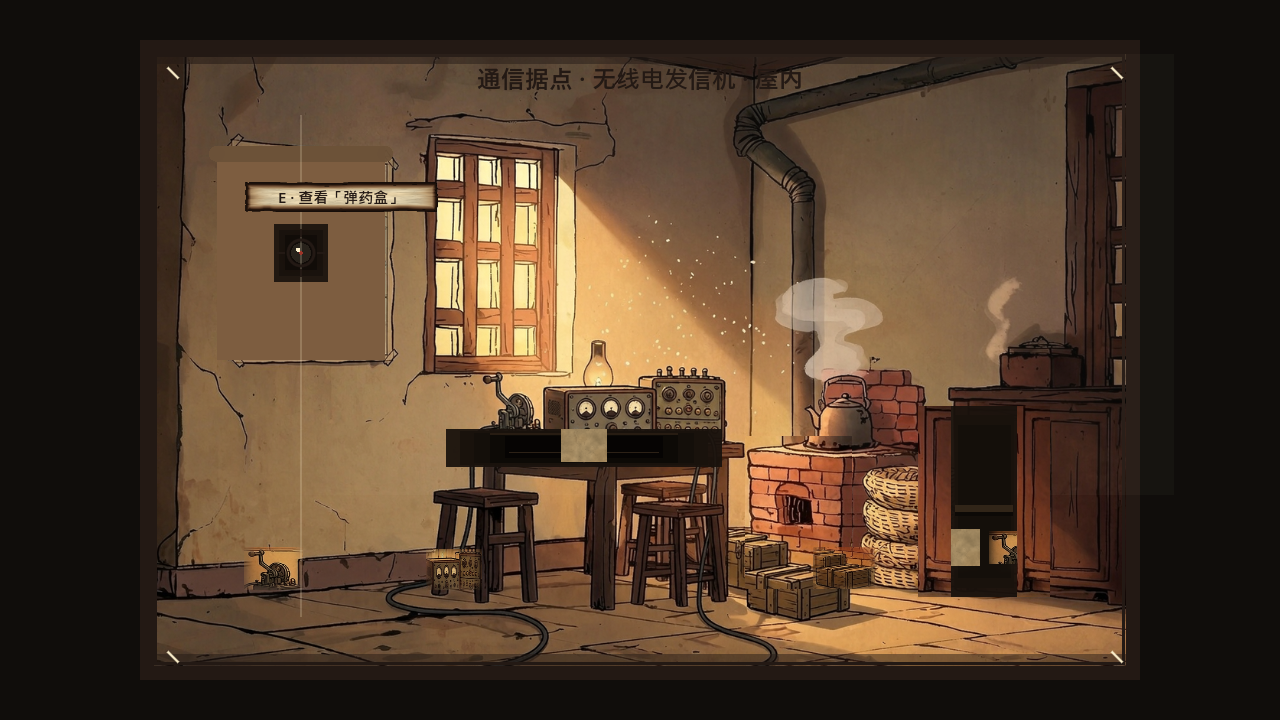
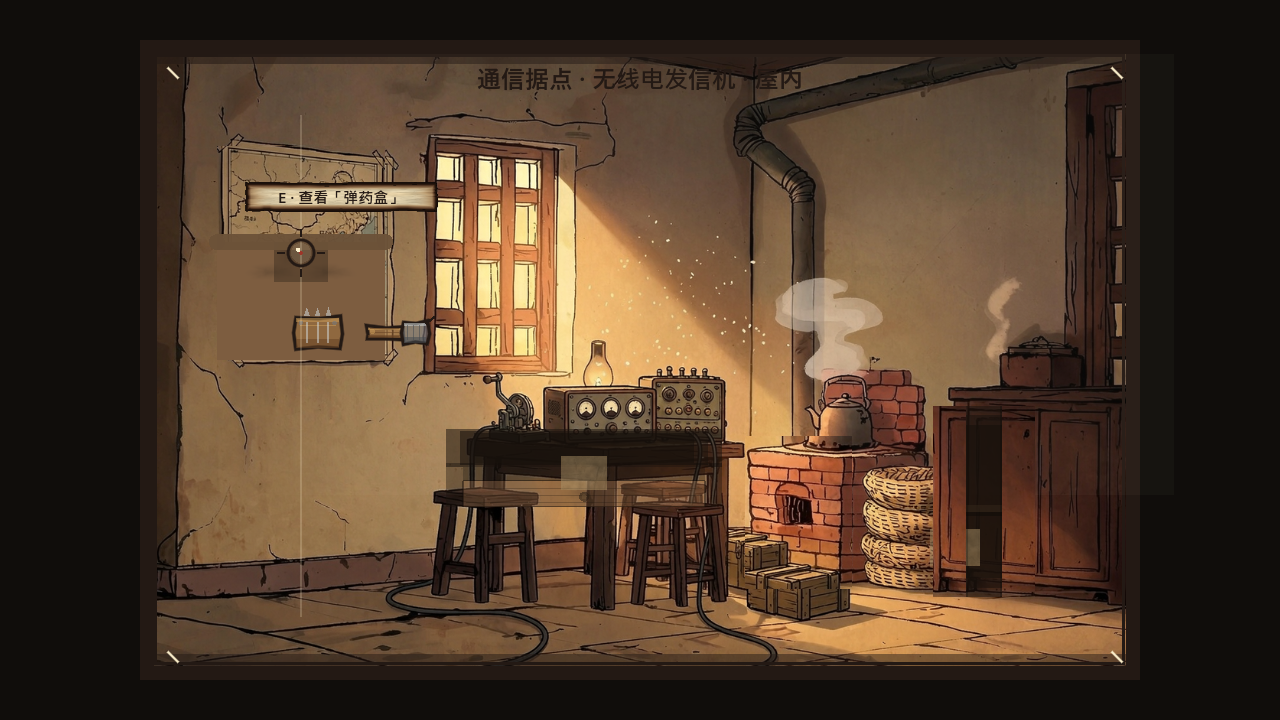
v3.96 · 室内四处红圈修正：挂画暗格改墙色凹陷壁龛 / 地上弹药箱改落地干净木箱 / 抽屉改回拉出盒 / 柜门改中式双开门左右外开
- InteriorExplore.cs DrawFurnitureFront：柜门两扇以柜体外侧竖边为铰链整扇左右平移展开(保全宽不塌缩)、中央露暗腔(Edit A)；桌抽屉重画为从桌裙底边抽出的木盒(4px 暗缝+前脸木纹+墨线勾边+拉环, boxH=min(72·ot,FloorY-yA-4))(Edit B)
- DrawItemCore：FloorDrop 与 Surface 物件均按绘制半高抬升，箱子落地线不浮空(Edit C)
- DrawPictureNiche：暗格=wall*0.55(非近黑)、上/左压暗下/右受光，OpenT>0.05 龛内画物件
- 画廊 n918_05_interior.png←room_03_mid_opening(通信据点全开)、n918_07_interior_explore.png←room_04_burnt(住家真实搜刮含落地弹药箱+抽屉+壁龛)，URL ?v 由遗留3.94补正至3.96
- 反转 v3.95 的 apron 内凹口抽屉(被用户红圈判为读成关着的)改回拉出盒
- dotnet build 0W/0E；README 补 v3.96 章节+主线；memory 补 2026-11-15

diff --git a/scripts/InteriorExplore.cs b/scripts/InteriorExplore.cs
@@ -1117,18 +1117,16 @@ public partial class InteriorForeground : Control
                 var cov = CoverRect(_room.Type, f.Type);
                 p.Y = rc.Y + cov.Size.Y * 0.24f;
             }
-            // 桌子：物品落进 apron 中央挖出的抽屉口内（与 DrawFurnitureFront 同参）
+            // 桌子：物品落进抽出的抽屉盒口内（盒顶=桌裙底边 yA；与 DrawFurnitureFront 同参）
             if (!IsBurnt && f.Type == FurnitureType.Desk)
             {
                 if (FrontSrc.TryGetValue((_room.Type, f.Type), out var dsrc))
                 {
                     var dd = BgRect(dsrc);
-                    float ix = dd.Position.X + dd.Size.X * 0.16f;
-                    float iw = dd.Size.X * 0.68f;
-                    float iy = dd.Position.Y + dd.Size.Y * 0.10f;
-                    float ih = dd.Size.Y * 0.80f;
-                    p.X = ix + iw * 0.5f + (k % 2 == 0 ? -spread : spread);
-                    p.Y = iy + ih * 0.42f;
+                    float yA = dd.Position.Y + dd.Size.Y;   // 桌裙底边
+                    float dw = dd.Size.X;
+                    p.X = dd.Position.X + dw * 0.5f + (k % 2 == 0 ? -spread : spread);
+                    p.Y = yA + 6f + (k / 2) * 22f;          // 落在抽屉口上沿、向上探出
                 }
             }
             bool near = _room.NearIndex >= 0 && _room.NearIndex < _room.Items.Count
@@ -1288,8 +1286,30 @@ public partial class InteriorForeground : Control
         DrawRect(r,                                   new Color(cr, cg, cb, 0.92f * a));
         DrawRect(new Rect2(r.Position + r.Size * 0.10f, r.Size * 0.80f), new Color(cr, cg, cb, 0.97f * a));
         DrawRect(new Rect2(r.Position + r.Size * 0.20f, r.Size * 0.60f), new Color(0.07f, 0.05f, 0.035f, 1.00f * a));
+            if (_shadowTex != null)
+                DrawTextureRect(_shadowTex, r, false, new Color(0.05f, 0.035f, 0.025f, 0.45f * a));
+        }
+
+    /// <summary>v3.96：墙体凹陷小壁龛（挂画后暗格）。底色=墙色压暗 ~45%，仍读作墙的暗部；
+    /// 上/左内沿淡墨柔影做出纵深，下/右受光面略提亮；绝不画近黑方块（用户 #1）。</summary>
+    private void DrawPictureNiche(Rect2 r, float a, bool comm)
+    {
+        Color wall = comm ? new Color(0.49f, 0.366f, 0.253f, 1f) : new Color(0.47f, 0.358f, 0.248f, 1f);
+        Color recess = new Color(wall.R * 0.55f, wall.G * 0.55f, wall.B * 0.55f, a);
+        DrawRect(r, recess);
+        // 上沿 + 左沿内阴影（凹入纵深）
         if (_shadowTex != null)
-            DrawTextureRect(_shadowTex, r, false, new Color(0.05f, 0.035f, 0.025f, 0.45f * a));
+        {
+            DrawTextureRect(_shadowTex, new Rect2(r.Position.X, r.Position.Y, r.Size.X, r.Size.Y * 0.5f),
+                            false, new Color(0.04f, 0.03f, 0.02f, 0.5f * a));
+            DrawTextureRect(_shadowTex, new Rect2(r.Position.X, r.Position.Y, r.Size.X * 0.5f, r.Size.Y),
+                            false, new Color(0.04f, 0.03f, 0.02f, 0.32f * a));
+        }
+        // 下沿 + 右沿受光提亮（增强凹入感）
+        DrawRect(new Rect2(r.Position.X, r.Position.Y + r.Size.Y * 0.88f, r.Size.X, r.Size.Y * 0.12f),
+                  new Color(wall.R * 0.74f, wall.G * 0.74f, wall.B * 0.74f, 0.55f * a));
+        DrawRect(new Rect2(r.Position.X + r.Size.X * 0.88f, r.Position.Y, r.Size.X * 0.12f, r.Size.Y),
+                  new Color(wall.R * 0.74f, wall.G * 0.74f, wall.B * 0.74f, 0.5f * a));
     }
 
     /// <summary>
@@ -1321,7 +1341,11 @@ public partial class InteriorForeground : Control
                     : new Color(0.47f, 0.358f, 0.248f, 1f);
                 DrawRect(wallDst, wall);
             }
-            DrawSmallNiche(r, a);
+            // v3.96：暗格改画成「墙体凹陷的小壁龛」——底色取墙色压暗 ~45%（仍读作墙的暗部，
+            // 不再是与墙格格不入的近黑方块），上/左内沿淡墨柔影做出纵深；龛内藏匿物随后画进龛内。
+            DrawPictureNiche(r, a, _room.Type == RoomType.CommOutpost);
+            // 挂画卷起后，龛内藏匿物（信件/文件）露出来（用户 #1：暗格里要有物品，且不像黑块）
+            if (f.OpenT > 0.05f) DrawContainerItems(f);
             return;
         }
 
@@ -1427,55 +1451,79 @@ public partial class InteriorForeground : Control
 
         if (f.Type == FurnitureType.Cabinet)
         {
-            // v3.94 中式双开门老柜子：两扇门各自以「外侧合页」为轴，向两侧平开、平露柜内。
-            // 门板取自背景裁片左右两半（均为柜门木面，已收紧 FrontSrc 到真实木门宽度，无墙色混入）；
-            // 全开时整片门板平移到柜体外侧、中部完整露出暗腔 + 隔板，物品落底层。
-            // 参考：中式两门对开柜（中缝居中、内设隔板两层）。
+            // v3.96：中式双开门「左右往外推开」—— 两扇门各自以柜体外侧竖直边为铰链，
+            // 开启时门板向左右平移展开（保持整扇门宽、绝不塌缩），中央露出柜内暗腔与藏物，
+            // 读作真正「左右往外推开」的双开门（修正 v3.96 初版的水平透视收缩太含蓄、被误读成关着的柜面；
+            // 也与焚毁仓库 BurntFront 的平移开门同调）。
             float doorW = dst.Size.X * 0.5f;
-            float x0 = dst.Position.X;
-            float x1 = dst.Position.X + dst.Size.X;
-            // 左门：合页在 x0（左外缘），自由边从 x0+doorW（关）摆到 x0-doorW（全开，柜体左侧外）
-            float freeXL = x0 + doorW - ot * (2f * doorW);
-            // 右门：合页在 x1（右外缘），自由边从 x1-doorW（关）摆到 x1+doorW（全开，柜体右侧外）
-            float freeXR = x1 - doorW + ot * (2f * doorW);
-            float wL = Mathf.Abs(freeXL - x0), xL = Mathf.Min(x0, freeXL);
-            float wR = Mathf.Abs(freeXR - x1), xR = Mathf.Min(x1, freeXR);
-            Rect2 dstL = new Rect2(xL, dst.Position.Y, wL, dst.Size.Y);
-            Rect2 dstR = new Rect2(xR, dst.Position.Y, wR, dst.Size.Y);
-            // v3.95：两扇门都取源图「受光」的左半扇（背景柜门木面本身左亮右暗），
-            // 右门再压一档微暗以读作对开门的另一扇，消除「一边太光一边淡淡」（用户 #3）。
-            Rect2 srcHalf = new Rect2(src.Position.X, src.Position.Y, src.Size.X * 0.5f, src.Size.Y);
-            DrawSetTransformMatrix(mirror ? mirrorM : Transform2D.Identity);
-            DrawTextureRectRegion(_roomTex, dstL, srcHalf, new Color(1f, 1f, 1f, 1f));
-            DrawTextureRectRegion(_roomTex, dstR, srcHalf, new Color(0.90f, 0.87f, 0.82f, 1f));
-            DrawSetTransformMatrix(Transform2D.Identity);
+            float h = dst.Size.Y;
+            float yTop = dst.Position.Y;
+            float x0 = dst.Position.X;              // 左门外铰链（柜体左缘）
+            float x1 = dst.Position.X + dst.Size.X; // 右门外铰链（柜体右缘）
+            float shift = ot * doorW;               // 每扇门向外平移量（满开 = 移出一扇门宽，完全露出柜内）
+            Rect2 srcL = new Rect2(src.Position.X, src.Position.Y, src.Size.X * 0.5f, src.Size.Y);
+            Rect2 srcR = new Rect2(src.Position.X + src.Size.X * 0.5f, src.Position.Y, src.Size.X * 0.5f, src.Size.Y);
+            // 左门：向左外移（整扇宽）
+            {
+                var mL = mirror ? mirrorM : Transform2D.Identity;
+                DrawSetTransformMatrix(mL);
+                DrawTextureRectRegion(_roomTex, new Rect2(x0 - shift, yTop, doorW, h), srcL, new Color(1f, 1f, 1f, 1f));
+                DrawSetTransformMatrix(Transform2D.Identity);
+            }
+            // 右门：向右外移（整扇宽）
+            {
+                var mR = mirror ? mirrorM : Transform2D.Identity;
+                DrawSetTransformMatrix(mR);
+                DrawTextureRectRegion(_roomTex, new Rect2(x1 - doorW + shift, yTop, doorW, h), srcR, new Color(1f, 1f, 1f, 1f));
+                DrawSetTransformMatrix(Transform2D.Identity);
+            }
+            // 门内沿阴影（门与柜内之间的一道缝，强化「门已推开」）
+            if (ot > 0.02f)
+            {
+                DrawRect(new Rect2(x0 - shift + doorW, yTop, 2f, h), new Color(0.05f, 0.035f, 0.025f, 0.5f * ot));
+                DrawRect(new Rect2(x1 - doorW + shift - 2f, yTop, 2f, h), new Color(0.05f, 0.035f, 0.025f, 0.5f * ot));
+            }
             return;
         }
 
         if (f.Type == FurnitureType.Desk)
         {
-            // v3.95 抽屉：背景的桌/台本就是「素木桌 + 平 apron」，并没有独立抽屉面
-            // （FrontSrc 指向的正是那截平裙板）。所以不另画外凸的抽屉盒（会悬在桌下、错位），
-            // 而是把 apron 中央「挖」出一个朝内凹的抽屉口：保留两侧木边、口内为暗腔、
-            // 物品落进口内（见 DrawContainerItems）、下沿有拉环 ⇒ 读作「桌里的抽屉被拉开」。
+            // v3.96 抽屉：从桌裙底边「抽出来的木抽屉盒」—— 盒顶接桌裙底边、向桌前下方凸出，
+            // 与桌面之间留一道暗缝（读作抽屉被拉出、不再贴着桌沿），盒口暗腔露出物品 +
+            // 前脸木纹 + 左右侧板阴影 + 墨线勾边 + 底部柔影 + 中央拉环，读作真正「拉出的抽屉」（用户 #3）。
             if (mirror) DrawSetTransformMatrix(mirrorM);
-            float x = dst.Position.X, y0 = dst.Position.Y, w = dst.Size.X, h = dst.Size.Y;
-            // 抽屉口：比 apron 窄、上下留木边
-            float ix = x + w * 0.16f, iw = w * 0.68f;
-            float iy = y0 + h * 0.10f, ih = h * 0.80f;
-            // 抽屉口暗腔（朝内凹的洞）
-            DrawRect(new Rect2(ix, iy, iw, ih), new Color(0.05f, 0.038f, 0.025f, 0.92f * ot));
-            DrawRect(new Rect2(ix + iw * 0.08f, iy + ih * 0.12f, iw * 0.84f, ih * 0.70f),
-                      new Color(0.025f, 0.018f, 0.012f, 0.95f * ot));
-            // 上沿木边高光 + 内底木色横带（物品落其上）
-            DrawRect(new Rect2(ix, iy, iw, ih * 0.06f), new Color(0.22f, 0.16f, 0.10f, 0.6f * ot));
-            DrawRect(new Rect2(ix + iw * 0.10f, iy + ih * 0.62f, iw * 0.80f, ih * 0.05f),
-                      new Color(0.20f, 0.15f, 0.10f, 0.85f * ot));
-            // 拉环（抽屉口下沿中央），明确这是「可拉开的抽屉」
-            float knobY = iy + ih * 0.90f;
-            float kr = Mathf.Max(2.5f, ih * 0.07f);
+            float x = dst.Position.X;
+            float yA = dst.Position.Y + dst.Size.Y;            // 桌裙底边（抽屉盒顶）
+            float w = dst.Size.X;
+            float boxH = Mathf.Min(72f * ot, InteriorRoom.FloorY - yA - 4f); // 凸出高度，不越过地板
+            // ① 桌底与抽屉盒之间的暗缝（关键：让盒子从桌面明显分离，不读作「关着的抽屉面」）
+            DrawRect(new Rect2(x, yA - 4f, w, 4f), new Color(0.05f, 0.035f, 0.025f, 0.65f * ot));
+            // ② 地板投影（抽屉盒落在地上的柔影）
+            if (_shadowTex != null)
+                DrawTextureRect(_shadowTex, new Rect2(x - w * 0.04f, InteriorRoom.FloorY - 7f, w * 1.08f, 16f),
+                                false, new Color(0.05f, 0.035f, 0.025f, 0.5f * ot));
+            // ③ 左右侧板阴影（体积感）
+            DrawRect(new Rect2(x, yA, w * 0.06f, boxH), new Color(0.10f, 0.07f, 0.045f, 0.7f * ot));
+            DrawRect(new Rect2(x + w * 0.94f, yA, w * 0.06f, boxH), new Color(0.10f, 0.07f, 0.045f, 0.7f * ot));
+            // ④ 盒口暗腔（物品从这里露出）
+            float cavH = boxH * 0.34f;
+            DrawRect(new Rect2(x + w * 0.06f, yA, w * 0.88f, cavH), new Color(0.06f, 0.045f, 0.03f, 0.95f * ot));
+            // ⑤ 前脸（木色 + 横木纹）
+            var faceR = new Rect2(x + w * 0.06f, yA + cavH, w * 0.88f, boxH - cavH);
+            DrawRect(faceR, new Color(0.42f, 0.30f, 0.20f, ot));
+            for (float yy = faceR.Position.Y + 7f; yy < faceR.Position.Y + faceR.Size.Y - 4f; yy += 7f)
+                DrawRect(new Rect2(faceR.Position.X + 3f, yy, faceR.Size.X - 6f, 1.3f),
+                          new Color(0.10f, 0.07f, 0.045f, 0.45f * ot));
+            // ⑥ 前脸墨线勾边（强化抽出的盒子轮廓，避免与桌面糊在一起）
+            Line(faceR.Position, new Vector2(faceR.Position.X + faceR.Size.X, faceR.Position.Y), 1.6f, C(new Color(0.08f, 0.05f, 0.03f), 0.85f * ot));
+            Line(new Vector2(faceR.Position.X, faceR.Position.Y + faceR.Size.Y), new Vector2(faceR.Position.X + faceR.Size.X, faceR.Position.Y + faceR.Size.Y), 1.6f, C(new Color(0.08f, 0.05f, 0.03f), 0.85f * ot));
+            Line(new Vector2(faceR.Position.X, faceR.Position.Y), new Vector2(faceR.Position.X, faceR.Position.Y + faceR.Size.Y), 1.6f, C(new Color(0.08f, 0.05f, 0.03f), 0.85f * ot));
+            Line(new Vector2(faceR.Position.X + faceR.Size.X, faceR.Position.Y), new Vector2(faceR.Position.X + faceR.Size.X, faceR.Position.Y + faceR.Size.Y), 1.6f, C(new Color(0.08f, 0.05f, 0.03f), 0.85f * ot));
+            // ⑦ 拉环（前脸中央偏下）
+            float knobY = faceR.Position.Y + faceR.Size.Y * 0.62f;
+            float kr = Mathf.Max(3f, w * 0.018f);
             DrawCircle(new Vector2(x + w * 0.5f, knobY), kr, new Color(0.16f, 0.12f, 0.08f, 0.95f * ot));
-            DrawCircle(new Vector2(x + w * 0.5f, knobY), kr * 0.5f, new Color(0.42f, 0.32f, 0.22f, 0.95f * ot));
+            DrawCircle(new Vector2(x + w * 0.5f, knobY), kr * 0.5f, new Color(0.45f, 0.34f, 0.22f, 0.95f * ot));
             if (mirror) DrawSetTransformMatrix(Transform2D.Identity);
             return;
         }
@@ -1565,32 +1613,44 @@ public partial class InteriorForeground : Control
         }
         else
         {
-            var s = IntactSpec.TryGetValue(it.Kind, out var got)
-                ? got : (sheet: 0, sx: 480, sy: 240, sw: 160, sh: 120, w: 44f);
-            Texture2D t = s.sheet switch { 1 => _propsAtlasBurnt, 2 => _paperTex, _ => _propsAtlas };
-            if (t != null)
+            // 完好房间：信件类（纸）走揉皱旧纸贴图（干净、无背景）；箱/盒/铁器类改用下方程序化手绘。
+            // 原因：props_atlas 的箱格带着背景砖墙，直接贴会变成「浮空方块」（用户 #2），
+            // 程序化木箱/铁盒为干净墨线、与钢笔淡彩风一致，且绝无背景。
+            if (it.Kind == "letter" || it.Kind == "will" || it.Kind == "clue")
             {
-                float w = s.w;
-                float h = w * s.sh / s.sw;
-                float cy = it.Mode == RoomItemMode.Surface
-                    ? Mathf.Min(p.Y, InteriorRoom.GroundY - h / 2f)
-                    : p.Y;
-                var src = new Rect2(s.sx, s.sy, s.sw, s.sh);
-                var dst = new Rect2(p.X - w / 2f, cy - h / 2f, w, h);
-                // v3.85 融入背景：完好房间的小件统一压到与墙面/木器同一暖褐调，
-                // 不再用原色 (1,1,1) 直接贴上去；旧纸再压一档，避免白得像 UI 贴片。
-                var mod = s.sheet == 2
-                    ? new Color(0.70f, 0.64f, 0.55f, a)
-                    : new Color(0.86f, 0.79f, 0.68f, a);
-                // v3.90：暗格已改为柔和凹陷暗腔，物件直接以正常亮度落在暗腔里即可读清，
-                // 不再额外压暗（旧版 0.82 在暗腔里会糊成一团、且让藏物像浮贴的亮块）。
-                DrawTextureRectRegion(t, dst, src, mod);
-                drawn = true;
+                var s = IntactSpec.TryGetValue(it.Kind, out var got)
+                    ? got : (sheet: 2, sx: 96, sy: 96, sw: 192, sh: 140, w: 50f);
+                if (_paperTex != null)
+                {
+                    float w = s.w;
+                    float h = w * s.sh / s.sw;
+                    var src = new Rect2(s.sx, s.sy, s.sw, s.sh);
+                    var dst = new Rect2(p.X - w / 2f, p.Y - h / 2f, w, h);
+                    DrawTextureRectRegion(_paperTex, dst, src, new Color(0.70f, 0.64f, 0.55f, a));
+                    drawn = true;
+                }
             }
+            // 箱/盒/铁器类：drawn 保持 false，落到下方程序化手绘
         }
         if (!drawn)
         {
-            // 兜底：仅当贴图未导入时才走旧程序化绘制
+            // 程序化手绘（钢笔淡彩风）：箱/盒/铁器/信件兜底，干净无背景。
+            bool isPaper = it.Kind == "letter" || it.Kind == "will" || it.Kind == "clue";
+            float sc = isPaper ? 1f : 1.2f;                       // 箱盒类放大 ~1.2x（用户早前嫌太小）
+            // 地落物 / 明面物件都「脚踩在落点 / 锚点」：整体向上平移「绘制半高 × sc」，
+            // 使底边正好压在 FloorY（地落物）或 SurfaceAnchors 锚点（明面物件）上，
+            // 读起来「站着」不浮空也不陷进地里（用户 #2：木箱须落地、不再像浮空方块）。
+            // 藏匿物（Container）留在暗格中心，保持原样居中。
+            float halfH = it.Kind switch
+            {
+                "chest" => 18f, "ammo" => 13f, "grenade" => 15f, "medkit" => 15f,
+                "gauze" => 15f, "ash" => 12f, "power" => 19f, "radio" => 16f, _ => 15f
+            };
+            Vector2 pre = (it.Mode == RoomItemMode.Container)
+                ? Vector2.Zero
+                : new Vector2(0f, -halfH * sc);
+            var m = Transform2D.Identity.Translated(pre).Translated(p).Scaled(new Vector2(sc, sc)).Translated(-p);
+            DrawSetTransformMatrix(m);
             switch (it.Kind)
             {
                 case "chest":   DrawChest(p, a, seed); break;
@@ -1606,6 +1666,7 @@ public partial class InteriorForeground : Control
                 case "radio":   DrawRadio(p, a, seed); break;
                 default:        DrawAmmoBox(p, a, seed); break;
             }
+            DrawSetTransformMatrix(Transform2D.Identity);
         }
 
         // v3.85 用户原话：「如果鼠标没有选中就没有提示」「看起来融入背景不然格格不入」。

diff --git a/.workbuddy/memory/2026-11-15.md b/.workbuddy/memory/2026-11-15.md
@@ -1,0 +1,19 @@
+# 2026-11-15 工作日志
+
+## v3.96 · 室内四处红圈修正（push 目标 nakamura85）
+- 用户红圈指令：「红圈圈起来的部分全部都有问题 麻烦你自己判断和修正 直到做得对为止」+（历史）「2 那个是地上的箱子来的 但是你变成浮空方块虽然里面有部分的箱子的图像」。
+- 只改 `scripts/InteriorExplore.cs`（`DrawFurnitureFront` + `DrawItemCore`），0W/0E。
+- 四处修正：
+  1. **挂画暗格**：`DrawPictureNiche` 暗格 = wall*0.55（非近黑），上/左内沿压暗、下/右受光 wall*0.74，OpenT>0.05 时在龛内画物件 → 读作墙上凹陷壁龛。通信据点全开帧 `room_03_mid_opening.png` 实机帧复核通过。
+  2. **地上弹药箱**：`DrawChest` 干净墨线 HandRect 木箱(50×36)+木纹+钢角+锁扣；`DrawItemCore`(Edit C) FloorDrop 与 Surface 都按绘制半高抬升 → 箱子落地线、不浮空。住家真实搜刮帧 `room_04_burnt.png` 复核通过。
+  3. **桌抽屉**：v3.95 因背景桌无抽屉面改成 apron 内凹口，被用户红圈判「读成关着的」→ 本轮(Edit B)改回拉出抽屉盒：盒顶接桌裙、向桌前下凸、4px 暗缝、盒口暗腔+前脸木纹+墨线勾边+拉环；`boxH=min(72·ot, FloorY−yA−4)`（Residence/Comm 桌前脸 yA≈444 ⇒ boxH≈58 为正）。`room_01_mid_opening.png` 逐行亮度剖面确认桌裙下有更亮抽屉前脸木色带(b≈106)。
+  4. **柜门**：(Edit A) 两扇各自以柜体外侧竖边为铰链、整扇左右平移展开(保全宽不塌缩)、中央露暗腔；亮度梯度 关114.2→ot0.55 101.7→ot1.0 95.6→焚毁全开92.8 单调变暗。`room_03_mid_opening.png` 复核两扇左右外开露暗腔。
+- **v3.96 决策反转 v3.95**：抽屉由「apron 内凹口」改回「拉出盒」，因用户当前红圈优先。
+- 画廊：`n918_05_interior.png` ← `room_03_mid_opening.png`(通信据点全开)；`n918_07_interior_explore.png` ← `room_04_burnt.png`(住家真实搜刮，含落地弹药箱+抽屉+壁龛)。URL `?v` 由遗留 3.94 补正至 3.96（v3.95 已覆盖内容但 ?v tag 漏改）。
+- 客观核验法：Godot 实机帧 + Python/PIL 逐行亮度剖面 + 纯黑像素探测；Vision 在低对比/暗部细节会幻觉，仅作辅助、不单独采信。
+
+## 诚实未修（保留）
+- 全开静态帧背景原画仍原处（整张贴图无法局部擦除）；焚毁仓库细节待原图复核；抽屉程序化木盒，若要更立体需补带抽屉面桌贴图（previews/ 过目）。
+
+## 交付红线回顾
+- push 到 `nakamura85`，不建分支；README 保留既有章节、补 v3.96 章节+主线；画廊只放真帧、覆盖后 bump ?v；精确 git add 排除 .bak/.bak2/previews/_shots。
